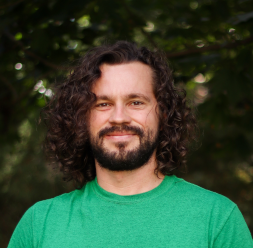
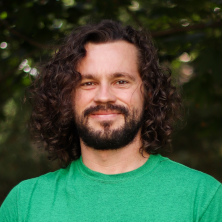
tweak team photos
adjusted team photos so all are square; changed alignment of some items for CUE team

diff --git a/about-us.html b/about-us.html
@@ -215,34 +215,34 @@
                     <div class="team-affiliation">UX Designer, CMU</div>
                 </div>
                 <div class="col-6 col-md-3">
-                    <div><img class="img-fluid" src="images/team/grace.jpg" /></div>
+                    <div><img class="img-fluid" src="images/team/grace.png" /></div>
                     <div class="team-name">Grace Joseph</div>
                     <div class="team-affiliation">UX Designer, CMU</div>
                 </div>
             </div>
 
             <div class="row mt-5 mb-3">
-                <h2>Center for Urban Education</h2>
+                <h2>University of Pittsburgh Center for Urban Education</h2>
             </div>
 
-            <div class="row team mt-2 mb-5 justify-content-center">
+            <div class="row team mt-2 mb-5">
                 <div class="col-6 col-md-3">
                     <div><img class="img-fluid" src="images/team/cue/carmentb.png" /></div>
                     <div class="team-name">Dr. Carmen Thomas-Brown</div>
                     <div class="team-affiliation">University of Pittsburgh<br> School of Education</div>
-                    <div class="team-affiliation">CUE Faculty Member</div>
+                    <div class="team-affiliation">Faculty Member</div>
                 </div>
                 <div class="col-6 col-md-3">
                     <div><img class="img-fluid" src="images/team/cue/cassandrab.png" /></div>
                     <div class="team-name">Cassandra Brentley</div>
                     <div class="team-affiliation">University of Pittsburgh<br>  School of Education</div>
-                    <div class="team-affiliation">CUE Director of Special Projects</div>
+                    <div class="team-affiliation">Director of Special Projects</div>
                 </div>
                 <div class="col-6 col-md-3">
                     <div><img class="img-fluid" src="images/team/cue/elond.png" /></div>
                     <div class="team-name">Dr. T. Elon Dancy</div>
-                    <div class="team-affiliation">Helen S. Faison Endowed Professor in Urban Education</div>
-                    <div class="team-affiliation">CUE Executive Director</div>
+                    <div class="team-affiliation">Helen S. Faison Endowed<br> Professor in Urban Education</div>
+                    <div class="team-affiliation">Executive Director</div>
                 </div>
             </div>
 
@@ -307,13 +307,13 @@
             <div id="footer-email" class="row p-4 border-top">
                 <div class="col-6 col-lg-4">
                     <div class="row">
-                        <div class="col-md-4">
+                        <div class="col-md-4 p-0">
                             <a href="media.html" class="footer-item regular footer-link">In The News</a>
                         </div>
-                        <div class="col-md-4 mt-2 mt-sm-0">
+                        <div class="col-md-4 p-0 mt-2 mt-md-0">
                             <a target="_blank" href="mailto:shivangg@andrew.cmu.edu; help@personalizedlearning2.org" class="regular inline footer-link">Contact Us</a>
                         </div>
-                        <div class="col-md-4 mt-2 mt-sm-0">
+                        <div class="col-md-4 p-0 mt-2 mt-md-0">
                             <a target="_blank" href="https://www.cmu.edu/legal/" class="footer-item regular footer-link">Terms of Use</a>
                         </div>
                     </div>
